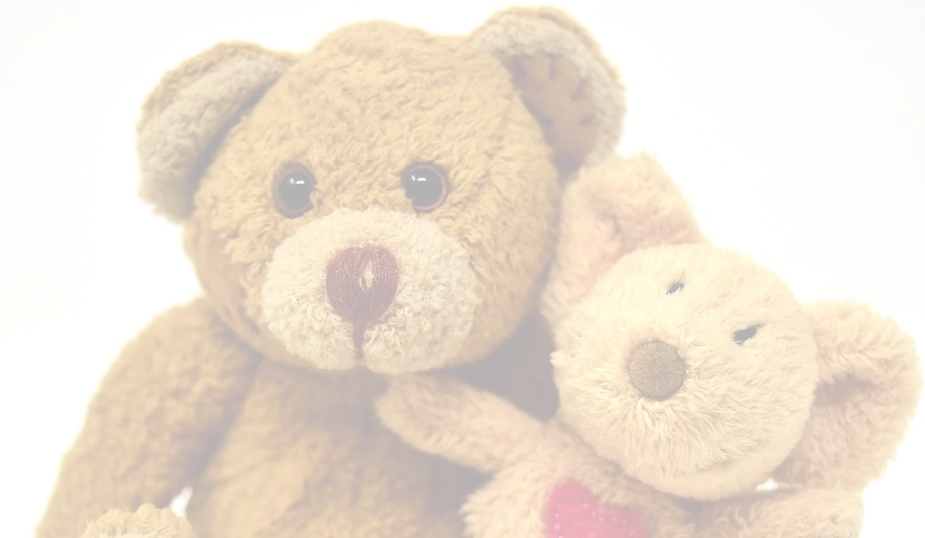
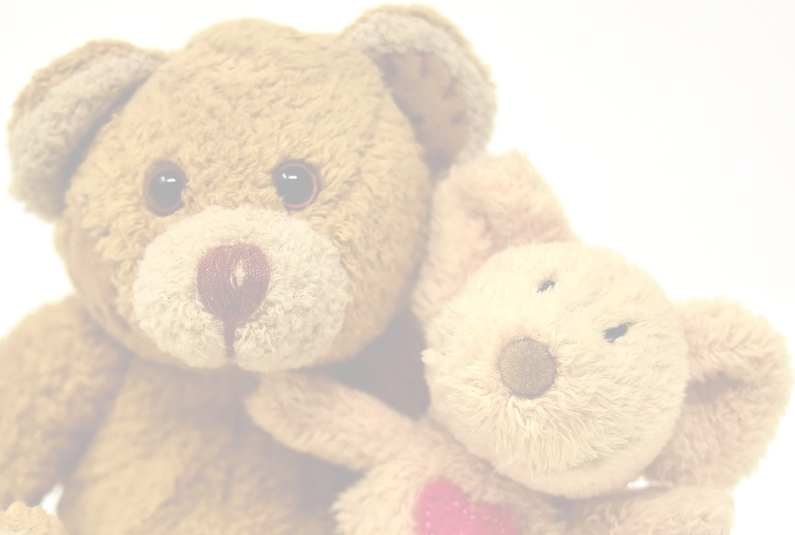
correction marge et taille image

diff --git a/front-end/index.html b/front-end/index.html
@@ -15,7 +15,7 @@
 <body>
     <header>
         <div class = "bg-info">
-            <div class="container">
+            <div class="container-fluid">
                 <div class = "container-header">
                     <div class="nav">
                         <a href="index.html"><h1 class="nav__cie text-light">Orinoco</h1></a>
@@ -29,7 +29,7 @@
     </header>
 
     <section>
-        <div class="container">  
+        <div class="container-fluid">  
             <div class="teddy__bg" > 
                 <div class="teddy__bg__text-group">
                     <h2 class="teddy__bg__text-group__title">Création d'ours personnalisé</h2>
@@ -53,7 +53,7 @@
 
     <footer>
         <div class = "bg-info">
-            <div class="container">
+            <div class="container-fluid">
                 <div class = "container-footer">
                        <p><a href="x">Contact</a></p>
                        <p><a href="x">CGU</a></p>

diff --git a/front-end/assets/css/style.css b/front-end/assets/css/style.css
@@ -56,9 +56,6 @@ a:hover {
   text-decoration: none;
 }
 
-.teddy {
-  max-width: 700px;
-}
 .teddy__bg {
   background-image: url("../img/bg_teddy2.png");
   background-size: cover;
@@ -95,13 +92,11 @@ a:hover {
   align-self: center;
   flex-direction: column;
   padding: 30px 0;
-  border: 1px red solid;
 }
 .products-home-page h3 {
   font-size: 40px;
   margin-bottom: 30px;
   text-align: center;
-  border: 1px blue solid;
 }
 .products-home-page .products {
   display: flex;

diff --git a/front-end/assets/scss/layout/_bloc_home_page.scss b/front-end/assets/scss/layout/_bloc_home_page.scss
@@ -1,10 +1,10 @@
 .teddy {
-    max-width: 700px;
     &__bg {
       background-image: url("../img/bg_teddy2.png");
       background-size: cover;
       background-position:center ;
       height: auto;
+      // width: auto;
       @include flex-center;
       &__text-group {
         margin: 20px 20px;

diff --git a/front-end/assets/scss/layout/_products_home_page.scss b/front-end/assets/scss/layout/_products_home_page.scss
@@ -3,14 +3,12 @@
   @include flex-center;
   flex-direction: column;
   padding: 30px 0;
-  border: 1px red solid;
 
   h3 {
     // font-family: "MV Boli";
     font-size: 40px;
     margin-bottom: 30px;
     text-align: center;
-    border: 1px blue solid;
   }
   .products {
     @include flex-center;
